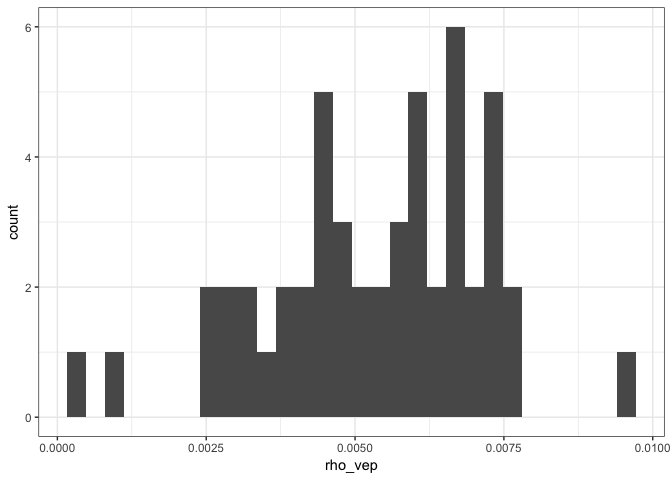
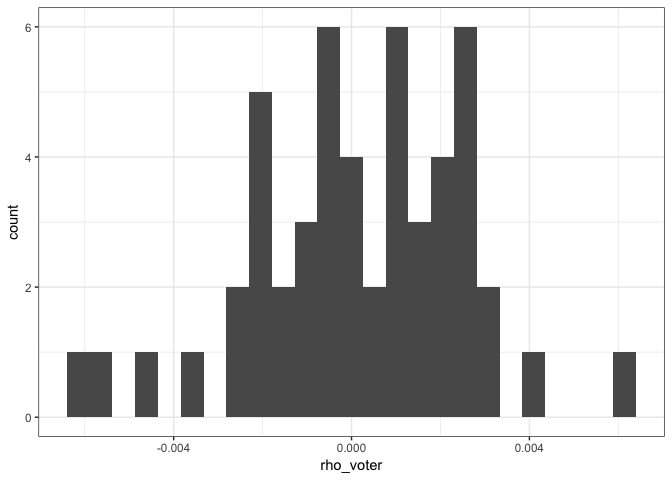
reorg spellcheck transfer figures

diff --git a/README.md b/README.md
@@ -12,7 +12,7 @@ The final dataset (`pres16_state.csv`) is a spreadsheet of the 50 states and DC.
 read_csv("data/output/pres16_state.csv")
 ```
 
-    ## # A tibble: 51 x 18
+    ## # A tibble: 51 x 21
     ##                   state    st color      vap      vep votes_hrc tot_votes
     ##                   <chr> <chr> <chr>    <int>    <int>     <int>     <int>
     ##  1              Alabama    AL     R  3770142  3601361    729547   2123372
@@ -25,11 +25,12 @@ read_csv("data/output/pres16_state.csv")
     ##  8             Delaware    DE     D   749872   689125    235603    441590
     ##  9 District of Columbia    DC     D   562329   511463    282830    311268
     ## 10              Florida    FL swing 16565588 14572210   4504975   9420039
-    ## # ... with 41 more rows, and 11 more variables: pct_hrc_vep <dbl>,
+    ## # ... with 41 more rows, and 14 more variables: pct_hrc_vep <dbl>,
     ## #   pct_hrc_voters <dbl>, cces_pct_hrc_vep <dbl>,
-    ## #   cces_pct_hrc_voters <dbl>, cces_n_raw <int>, cces_n_voters <dbl>,
-    ## #   yougov_pct_hrc <dbl>, yougov_n <dbl>, `State Results Website` <chr>,
-    ## #   rho_voter <dbl>, rho_vep <dbl>
+    ## #   cces_pct_hrc_voters <dbl>, cces_pct_hrc_raw <dbl>,
+    ## #   cces_tothrc_raw <int>, cces_tothrc_adj_trn <dbl>, cces_n_raw <int>,
+    ## #   cces_n_voters <dbl>, yougov_pct_hrc <dbl>, yougov_n <dbl>, `State
+    ## #   Results Website` <chr>, rho_voter <dbl>, rho_vep <dbl>
 
 The main columns are
 
@@ -42,13 +43,13 @@ Identifiers
 Outcomes (including estimates of VAP/VEP)
 
 -   `vap`: Estimated Voting Age Population (see below for definition)
--   `vep`: Estimated Voting Eligible Population (see below for definiton)
+-   `vep`: Estimated Voting Eligible Population (see below for definition)
 -   `votes_hrc`: Votes for Clinton
 -   `tot_votes`: Ballots cast for the Office of President.
--   `pct_hrc_voters`: Election Oucome. Hillary Clinton's Vote as a Percentage of Ballots Cast for President. Computed by `votes_hrc / tot_votes`
+-   `pct_hrc_voters`: Election Outcome. Hillary Clinton's Vote as a Percentage of Ballots Cast for President. Computed by `votes_hrc / tot_votes`
 -   `pct_hrc_vep`: Hillary Clinton's Vote as a Percentage of Ballots (estimated) eligible population. Computed by `votes_hrc / vep`
 
-Poll estiamtes. Construction detailed below and in `03_tabulate_polls.R`
+Poll estimates. Construction detailed below and in `03_tabulate_polls.R`
 
 -   `cces_pct_hrc_vep`: CCES estimated percent of Clinton votes among voting eligible population (loosely defined)
 -   `cces_pct_hrc_voters`: CCES estimated percent of Clinton votes among voters (i.e. those who turn out)
@@ -74,7 +75,7 @@ First, the sample space. The U.S. does not have an official census of citizens o
 
 Here we rely on Michael McDonald's estimates at <http://www.electproject.org/>
 
-**Voting Age Population (VAP)** is [defined](http://www.electproject.org/home/voter-turnout/faq/denominator) as folllows:
+**Voting Age Population (VAP)** is [defined](http://www.electproject.org/home/voter-turnout/faq/denominator) as follows:
 
 > The voting-age population, known by the acronym VAP, is defined by the Bureau of the Census as everyone residing in the United States, age 18 and older. Before 1971, the voting-age population was age 21 and older for most states.
 
@@ -101,7 +102,7 @@ Poll Prediction
 
 The Cooperative Congressional Election Study (CCES) is one of the largest pre-election studies conducted in the 2016 election. The CCES is conducted online for the several weeks before the election.
 
-The target population is registered voters. Sampling is continuouslly adjusted to obtain a representative sample. Multi-level models and other weighting schemes contribute to final state-level estimates.
+The target population is registered voters. Sampling is continuously adjusted to obtain a representative sample. Multi-level models and other weighting schemes contribute to final state-level estimates.
 
 I estimated state-level predictions without adjusting for sampling or any other covariate adjustment weights.
 
@@ -138,13 +139,15 @@ Setup plot...
 As points
 
 ``` r
-gg0 + geom_point()
+gg0 + aes(x = cces_pct_hrc_voters, size = cces_n_voters) +
+  xlab("Turnout-adjusted CCES Pre-election Survey Clinton Support")
 ```
 
 ![](README_files/figure-markdown_github-ascii_identifiers/unnamed-chunk-4-1.png)
 
 ``` r
-gg0 + geom_point(size = 1) +  geom_text_repel(aes(label = st), segment.alpha = 0.5)
+gg0 + aes(x = cces_pct_hrc_raw, size = cces_n_raw) +
+  xlab("Raw CCES Pre-election Survey Clinton Suport")
 ```
 
 ![](README_files/figure-markdown_github-ascii_identifiers/unnamed-chunk-5-1.png)
@@ -174,89 +177,49 @@ rho_estimate <- function(data = df, N, mu, muhat, n) {
 }
 ```
 
-Distribution of $\\hat{\\rho}$:
+We present two versions of this estimate based on the sampling
+
+Based on voters
+---------------
+
+For *ρ*<sub>*v**o**t**e**r*</sub>, we use
 
 ``` r
-ggplot(df, aes(x = rho_voter)) +geom_histogram() + theme_bw()
+df$rho_voter <- rho_estimate(N = "tot_votes",
+                             mu = "pct_hrc_voters",
+                             muhat = "cces_pct_hrc_voters",
+                             n = "cces_n_voters")
 ```
 
-    ## `stat_bin()` using `bins = 30`. Pick better value with `binwidth`.
-
-![](README_files/figure-markdown_github-ascii_identifiers/unnamed-chunk-7-1.png)
+Distribution
 
 ``` r
-ggplot(df, aes(x = rho_vep)) +geom_histogram() + theme_bw()
+ggplot(df, aes(x = rho_voter)) + geom_histogram(bins = 25) + theme_bw()
 ```
-
-    ## `stat_bin()` using `bins = 30`. Pick better value with `binwidth`.
 
 ![](README_files/figure-markdown_github-ascii_identifiers/unnamed-chunk-8-1.png)
 
-Correlates of $\\hat{\\rho}$:
+Based on voting eligible population
+-----------------------------------
+
+For *ρ*<sub>*v**e**p*</sub>, we use
 
 ``` r
-gg_rho_voter <-  ggplot(df, aes(x = log(tot_votes), y = log(abs(rho_voter)), label = st, color = color)) +
-  theme_bw() +
-  geom_point() +
-  scale_color_manual(values = colorvec)  +
-  geom_smooth(method = "lm", se = FALSE, color = "gray") +
-  geom_text_repel()
-gg_rho_voter
+df$rho_vep <- rho_estimate(N = "vep",
+                             mu = "pct_hrc_voters",
+                             muhat = "cces_pct_hrc_raw",
+                             n = "cces_n_raw")
 ```
 
-![](README_files/figure-markdown_github-ascii_identifiers/unnamed-chunk-9-1.png)
+Distribution
 
 ``` r
-summary(lm(log(abs(rho_voter)) ~ log(tot_votes), df))
+ggplot(df, aes(x = rho_vep)) + geom_histogram(bins = 25) + theme_bw()
 ```
 
-    ## 
-    ## Call:
-    ## lm(formula = log(abs(rho_voter)) ~ log(tot_votes), data = df)
-    ## 
-    ## Residuals:
-    ##     Min      1Q  Median      3Q     Max 
-    ## -2.7377 -0.5154  0.2908  0.6758  1.5932 
-    ## 
-    ## Coefficients:
-    ##                Estimate Std. Error t value Pr(>|t|)   
-    ## (Intercept)     -0.3806     1.9875  -0.192  0.84892   
-    ## log(tot_votes)  -0.4433     0.1384  -3.204  0.00239 **
-    ## ---
-    ## Signif. codes:  0 '***' 0.001 '**' 0.01 '*' 0.05 '.' 0.1 ' ' 1
-    ## 
-    ## Residual standard error: 1.006 on 49 degrees of freedom
-    ## Multiple R-squared:  0.1732, Adjusted R-squared:  0.1563 
-    ## F-statistic: 10.26 on 1 and 49 DF,  p-value: 0.002388
+![](README_files/figure-markdown_github-ascii_identifiers/unnamed-chunk-10-1.png)
 
-``` r
-gg_rho_voter + aes(x = log(vep), y = log(abs(rho_vep)))
-```
-
-![](README_files/figure-markdown_github-ascii_identifiers/unnamed-chunk-11-1.png)
-
-``` r
-summary(lm(log(abs(rho_vep)) ~ log(vep), df))
-```
-
-    ## 
-    ## Call:
-    ## lm(formula = log(abs(rho_vep)) ~ log(vep), data = df)
-    ## 
-    ## Residuals:
-    ##     Min      1Q  Median      3Q     Max 
-    ## -2.4279 -0.1386  0.1314  0.3068  0.8911 
-    ## 
-    ## Coefficients:
-    ##             Estimate Std. Error t value Pr(>|t|)    
-    ## (Intercept) -6.92504    1.12693  -6.145  1.4e-07 ***
-    ## log(vep)     0.10701    0.07582   1.411    0.164    
-    ## ---
-    ## Signif. codes:  0 '***' 0.001 '**' 0.01 '*' 0.05 '.' 0.1 ' ' 1
-    ## 
-    ## Residual standard error: 0.5457 on 49 degrees of freedom
-    ## Multiple R-squared:  0.03907,    Adjusted R-squared:  0.01946 
-    ## F-statistic: 1.992 on 1 and 49 DF,  p-value: 0.1644
+Figures as PDFs are in `figures`.
 
 References
 ==========
